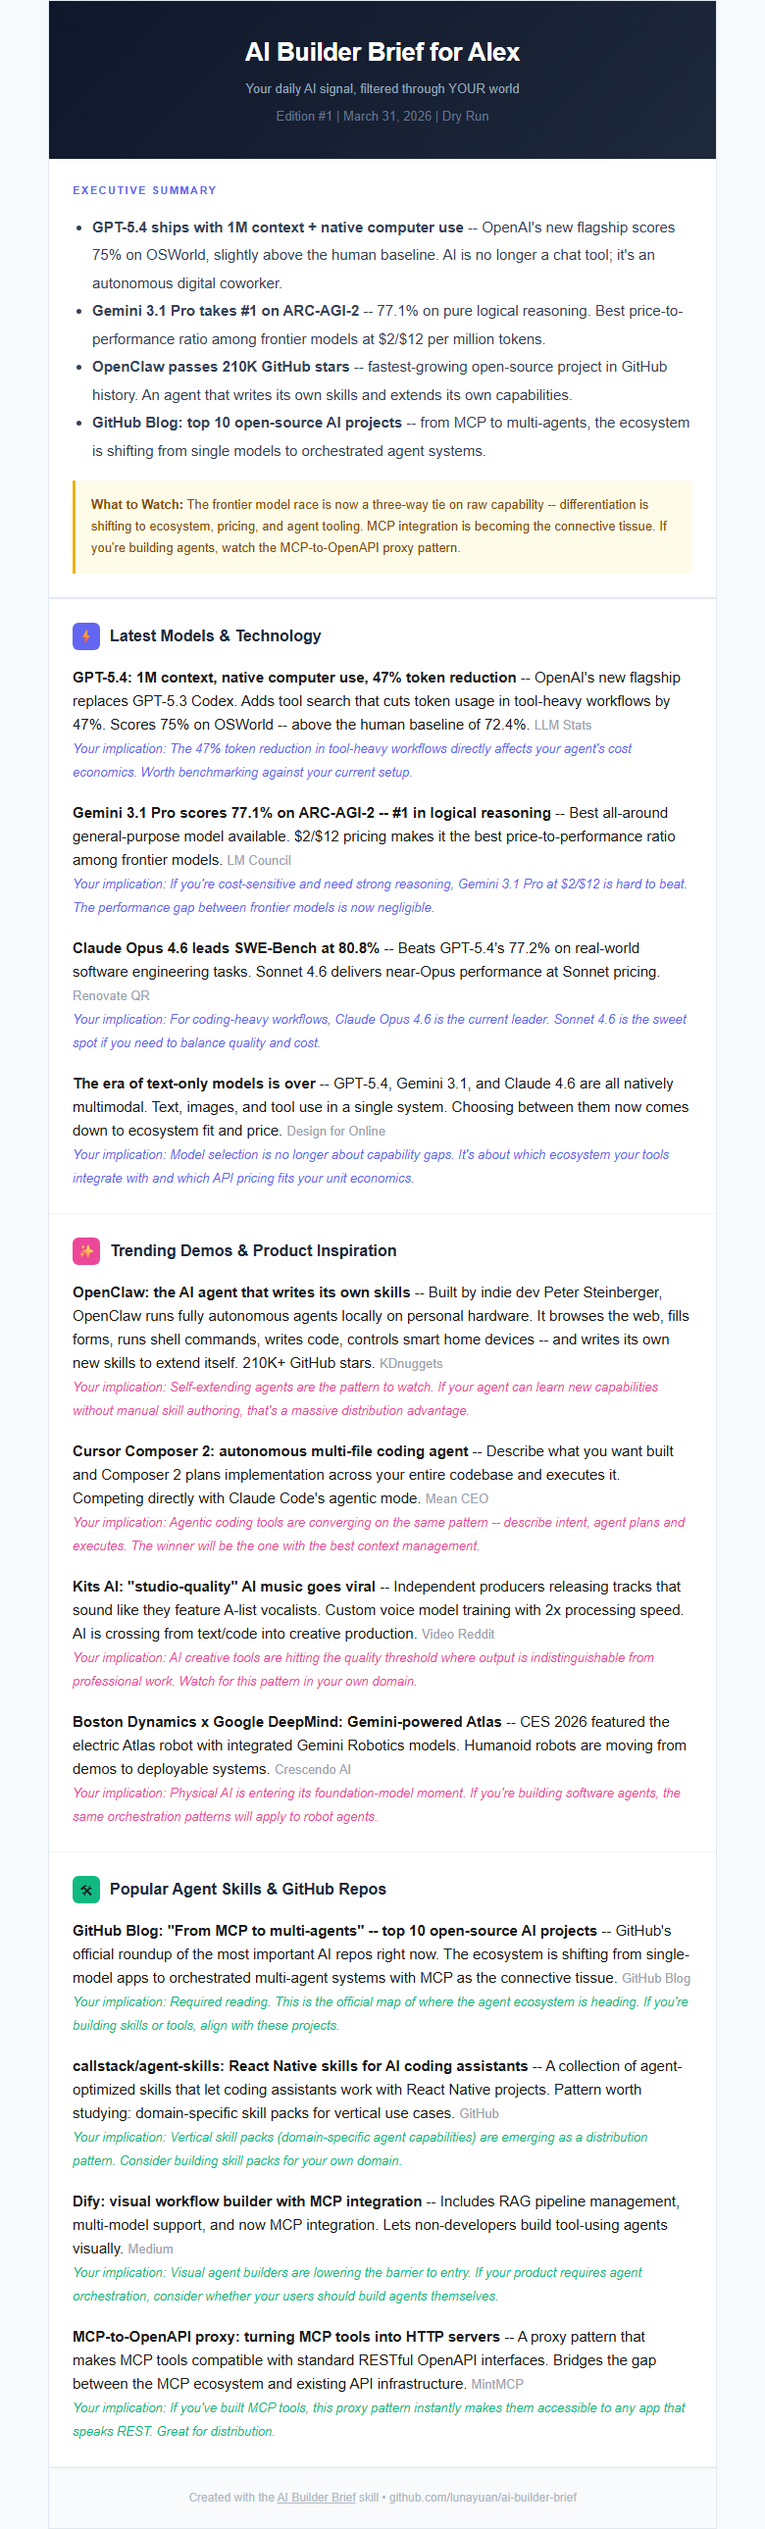
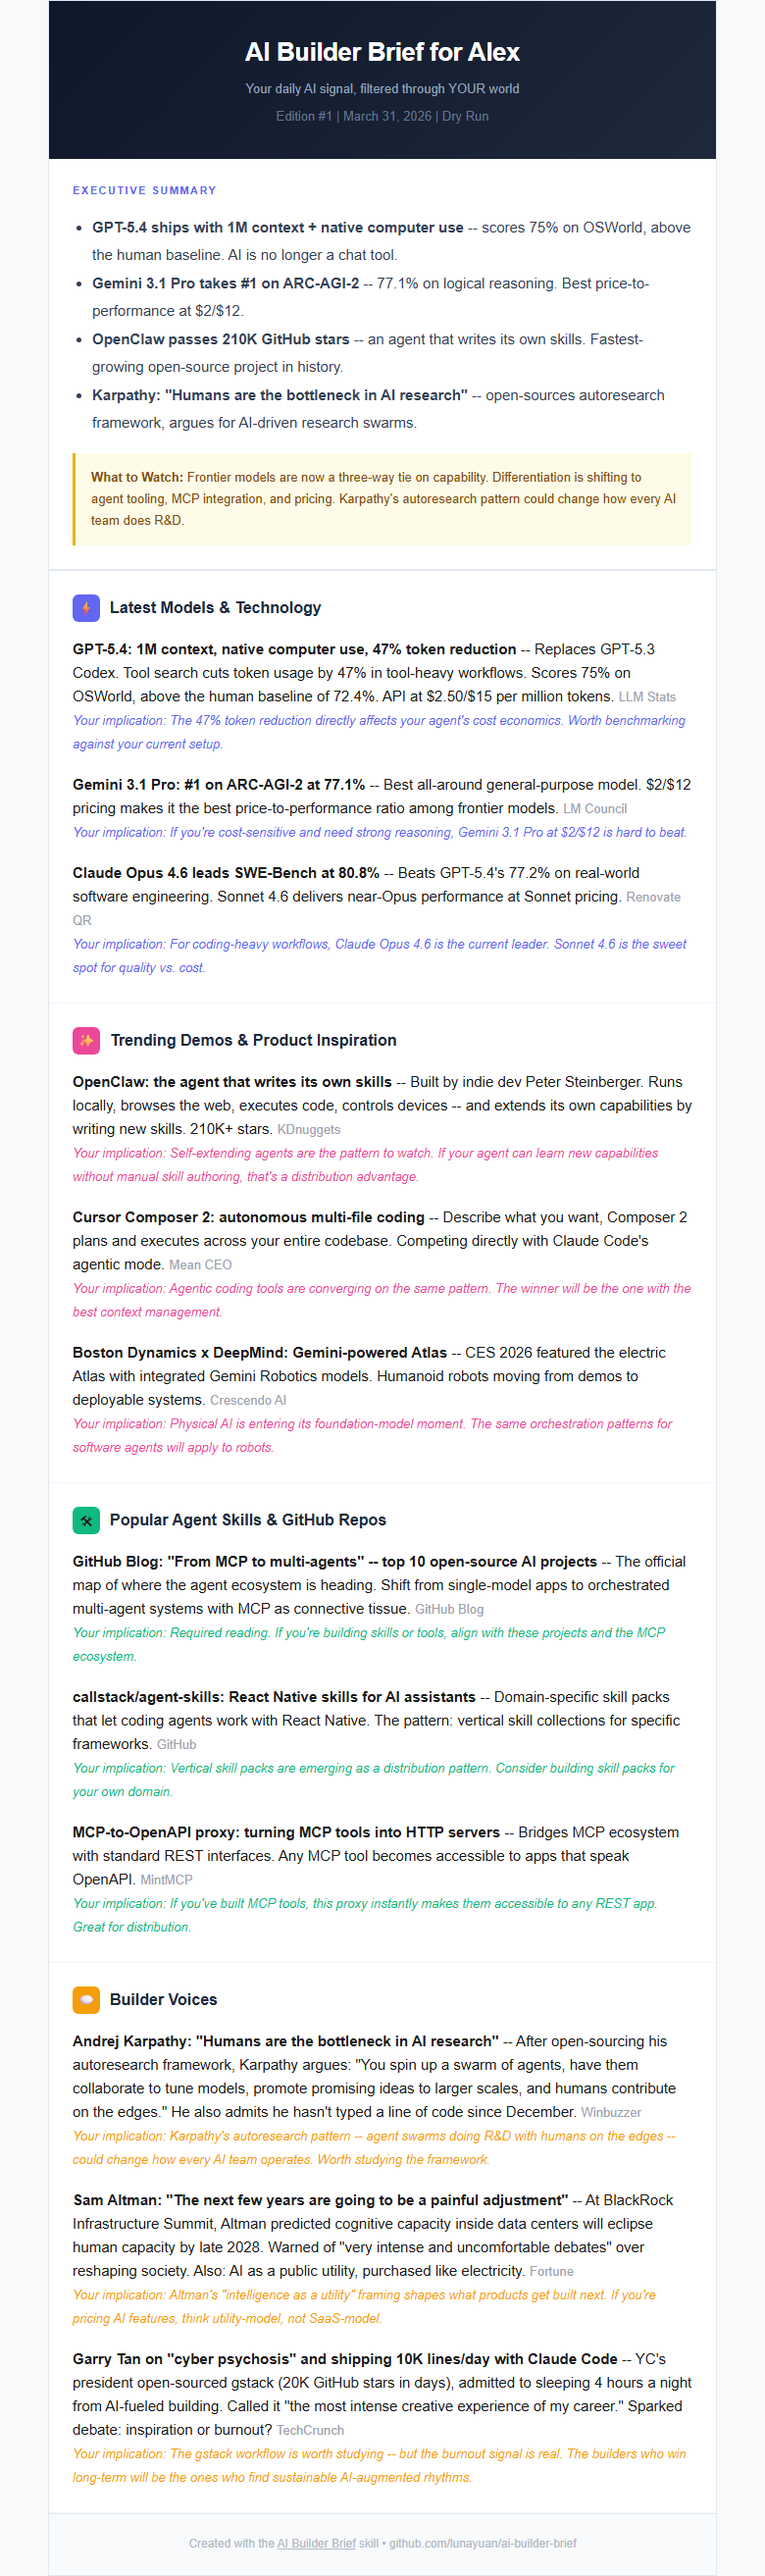
New 4-category sample briefing with Builder Voices
Sample now reflects the 4 default builder categories:
1. Latest Models & Technology
2. Trending Demos & Product Inspiration
3. Popular Agent Skills & GitHub Repos
4. Builder Voices (Karpathy, Altman, Garry Tan quotes)

Also: updated screenshot, placeholder emails to ai_briefing@,
and repo description updated.

Changed region(s): [[0.0923, 0.031, 0.8923, 0.9616], [0.6462, 0.0, 0.6769, 0.031]]

diff --git a/examples/sample-briefing.html b/examples/sample-briefing.html
@@ -15,13 +15,13 @@
 <div style="padding:24px;border-bottom:2px solid #e2e8f0">
 <div style="font-size:11px;font-weight:700;color:#6366f1;text-transform:uppercase;letter-spacing:1.5px;margin-bottom:14px">Executive Summary</div>
 <ul style="margin:0;padding-left:20px;line-height:1.9;color:#334155">
-<li><strong>GPT-5.4 ships with 1M context + native computer use</strong> -- OpenAI's new flagship scores 75% on OSWorld, slightly above the human baseline. AI is no longer a chat tool; it's an autonomous digital coworker.</li>
-<li><strong>Gemini 3.1 Pro takes #1 on ARC-AGI-2</strong> -- 77.1% on pure logical reasoning. Best price-to-performance ratio among frontier models at $2/$12 per million tokens.</li>
-<li><strong>OpenClaw passes 210K GitHub stars</strong> -- fastest-growing open-source project in GitHub history. An agent that writes its own skills and extends its own capabilities.</li>
-<li><strong>GitHub Blog: top 10 open-source AI projects</strong> -- from MCP to multi-agents, the ecosystem is shifting from single models to orchestrated agent systems.</li>
+<li><strong>GPT-5.4 ships with 1M context + native computer use</strong> -- scores 75% on OSWorld, above the human baseline. AI is no longer a chat tool.</li>
+<li><strong>Gemini 3.1 Pro takes #1 on ARC-AGI-2</strong> -- 77.1% on logical reasoning. Best price-to-performance at $2/$12.</li>
+<li><strong>OpenClaw passes 210K GitHub stars</strong> -- an agent that writes its own skills. Fastest-growing open-source project in history.</li>
+<li><strong>Karpathy: "Humans are the bottleneck in AI research"</strong> -- open-sources autoresearch framework, argues for AI-driven research swarms.</li>
 </ul>
 <div style="margin-top:16px;padding:14px 16px;background:#fefce8;border-left:3px solid #eab308;font-size:13px;color:#854d0e;line-height:1.7">
-<strong>What to Watch:</strong> The frontier model race is now a three-way tie on raw capability -- differentiation is shifting to ecosystem, pricing, and agent tooling. MCP integration is becoming the connective tissue. If you're building agents, watch the MCP-to-OpenAPI proxy pattern.
+<strong>What to Watch:</strong> Frontier models are now a three-way tie on capability. Differentiation is shifting to agent tooling, MCP integration, and pricing. Karpathy's autoresearch pattern could change how every AI team does R&amp;D.
 </div>
 </div>
 
@@ -33,23 +33,18 @@
 </div>
 
 <div style="margin-bottom:18px">
-<strong>GPT-5.4: 1M context, native computer use, 47% token reduction</strong> -- OpenAI's new flagship replaces GPT-5.3 Codex. Adds tool search that cuts token usage in tool-heavy workflows by 47%. Scores 75% on OSWorld -- above the human baseline of 72.4%. <a href="https://llm-stats.com/ai-news" style="color:#9ca3af;text-decoration:none;font-size:13px">LLM Stats</a><br>
-<em style="color:#6366f1;font-size:13px">Your implication: The 47% token reduction in tool-heavy workflows directly affects your agent's cost economics. Worth benchmarking against your current setup.</em>
+<strong>GPT-5.4: 1M context, native computer use, 47% token reduction</strong> -- Replaces GPT-5.3 Codex. Tool search cuts token usage by 47% in tool-heavy workflows. Scores 75% on OSWorld, above the human baseline of 72.4%. API at $2.50/$15 per million tokens. <a href="https://llm-stats.com/ai-news" style="color:#9ca3af;text-decoration:none;font-size:13px">LLM Stats</a><br>
+<em style="color:#6366f1;font-size:13px">Your implication: The 47% token reduction directly affects your agent's cost economics. Worth benchmarking against your current setup.</em>
 </div>
 
 <div style="margin-bottom:18px">
-<strong>Gemini 3.1 Pro scores 77.1% on ARC-AGI-2 -- #1 in logical reasoning</strong> -- Best all-around general-purpose model available. $2/$12 pricing makes it the best price-to-performance ratio among frontier models. <a href="https://lmcouncil.ai/benchmarks" style="color:#9ca3af;text-decoration:none;font-size:13px">LM Council</a><br>
-<em style="color:#6366f1;font-size:13px">Your implication: If you're cost-sensitive and need strong reasoning, Gemini 3.1 Pro at $2/$12 is hard to beat. The performance gap between frontier models is now negligible.</em>
-</div>
-
-<div style="margin-bottom:18px">
-<strong>Claude Opus 4.6 leads SWE-Bench at 80.8%</strong> -- Beats GPT-5.4's 77.2% on real-world software engineering tasks. Sonnet 4.6 delivers near-Opus performance at Sonnet pricing. <a href="https://renovateqr.com/blog/ai-model-releases-2026" style="color:#9ca3af;text-decoration:none;font-size:13px">Renovate QR</a><br>
-<em style="color:#6366f1;font-size:13px">Your implication: For coding-heavy workflows, Claude Opus 4.6 is the current leader. Sonnet 4.6 is the sweet spot if you need to balance quality and cost.</em>
+<strong>Gemini 3.1 Pro: #1 on ARC-AGI-2 at 77.1%</strong> -- Best all-around general-purpose model. $2/$12 pricing makes it the best price-to-performance ratio among frontier models. <a href="https://lmcouncil.ai/benchmarks" style="color:#9ca3af;text-decoration:none;font-size:13px">LM Council</a><br>
+<em style="color:#6366f1;font-size:13px">Your implication: If you're cost-sensitive and need strong reasoning, Gemini 3.1 Pro at $2/$12 is hard to beat.</em>
 </div>
 
 <div style="margin-bottom:0">
-<strong>The era of text-only models is over</strong> -- GPT-5.4, Gemini 3.1, and Claude 4.6 are all natively multimodal. Text, images, and tool use in a single system. Choosing between them now comes down to ecosystem fit and price. <a href="https://designforonline.com/the-best-ai-models-so-far-in-2026/" style="color:#9ca3af;text-decoration:none;font-size:13px">Design for Online</a><br>
-<em style="color:#6366f1;font-size:13px">Your implication: Model selection is no longer about capability gaps. It's about which ecosystem your tools integrate with and which API pricing fits your unit economics.</em>
+<strong>Claude Opus 4.6 leads SWE-Bench at 80.8%</strong> -- Beats GPT-5.4's 77.2% on real-world software engineering. Sonnet 4.6 delivers near-Opus performance at Sonnet pricing. <a href="https://renovateqr.com/blog/ai-model-releases-2026" style="color:#9ca3af;text-decoration:none;font-size:13px">Renovate QR</a><br>
+<em style="color:#6366f1;font-size:13px">Your implication: For coding-heavy workflows, Claude Opus 4.6 is the current leader. Sonnet 4.6 is the sweet spot for quality vs. cost.</em>
 </div>
 </div>
 
@@ -61,23 +56,18 @@
 </div>
 
 <div style="margin-bottom:18px">
-<strong>OpenClaw: the AI agent that writes its own skills</strong> -- Built by indie dev Peter Steinberger, OpenClaw runs fully autonomous agents locally on personal hardware. It browses the web, fills forms, runs shell commands, writes code, controls smart home devices -- and writes its own new skills to extend itself. 210K+ GitHub stars. <a href="https://www.kdnuggets.com/openclaw-explained-the-free-ai-agent-tool-going-viral-already-in-2026" style="color:#9ca3af;text-decoration:none;font-size:13px">KDnuggets</a><br>
-<em style="color:#ec4899;font-size:13px">Your implication: Self-extending agents are the pattern to watch. If your agent can learn new capabilities without manual skill authoring, that's a massive distribution advantage.</em>
+<strong>OpenClaw: the agent that writes its own skills</strong> -- Built by indie dev Peter Steinberger. Runs locally, browses the web, executes code, controls devices -- and extends its own capabilities by writing new skills. 210K+ stars. <a href="https://www.kdnuggets.com/openclaw-explained-the-free-ai-agent-tool-going-viral-already-in-2026" style="color:#9ca3af;text-decoration:none;font-size:13px">KDnuggets</a><br>
+<em style="color:#ec4899;font-size:13px">Your implication: Self-extending agents are the pattern to watch. If your agent can learn new capabilities without manual skill authoring, that's a distribution advantage.</em>
 </div>
 
 <div style="margin-bottom:18px">
-<strong>Cursor Composer 2: autonomous multi-file coding agent</strong> -- Describe what you want built and Composer 2 plans implementation across your entire codebase and executes it. Competing directly with Claude Code's agentic mode. <a href="https://blog.mean.ceo/new-ai-model-releases-news-march-2026/" style="color:#9ca3af;text-decoration:none;font-size:13px">Mean CEO</a><br>
-<em style="color:#ec4899;font-size:13px">Your implication: Agentic coding tools are converging on the same pattern -- describe intent, agent plans and executes. The winner will be the one with the best context management.</em>
-</div>
-
-<div style="margin-bottom:18px">
-<strong>Kits AI: "studio-quality" AI music goes viral</strong> -- Independent producers releasing tracks that sound like they feature A-list vocalists. Custom voice model training with 2x processing speed. AI is crossing from text/code into creative production. <a href="https://videoreddit.edu.vn/%F0%9F%8E%A4-kits-ai-2026-the-studio-quality-music-revolution/" style="color:#9ca3af;text-decoration:none;font-size:13px">Video Reddit</a><br>
-<em style="color:#ec4899;font-size:13px">Your implication: AI creative tools are hitting the quality threshold where output is indistinguishable from professional work. Watch for this pattern in your own domain.</em>
+<strong>Cursor Composer 2: autonomous multi-file coding</strong> -- Describe what you want, Composer 2 plans and executes across your entire codebase. Competing directly with Claude Code's agentic mode. <a href="https://blog.mean.ceo/new-ai-model-releases-news-march-2026/" style="color:#9ca3af;text-decoration:none;font-size:13px">Mean CEO</a><br>
+<em style="color:#ec4899;font-size:13px">Your implication: Agentic coding tools are converging on the same pattern. The winner will be the one with the best context management.</em>
 </div>
 
 <div style="margin-bottom:0">
-<strong>Boston Dynamics x Google DeepMind: Gemini-powered Atlas</strong> -- CES 2026 featured the electric Atlas robot with integrated Gemini Robotics models. Humanoid robots are moving from demos to deployable systems. <a href="https://www.crescendo.ai/news/latest-ai-news-and-updates" style="color:#9ca3af;text-decoration:none;font-size:13px">Crescendo AI</a><br>
-<em style="color:#ec4899;font-size:13px">Your implication: Physical AI is entering its foundation-model moment. If you're building software agents, the same orchestration patterns will apply to robot agents.</em>
+<strong>Boston Dynamics x DeepMind: Gemini-powered Atlas</strong> -- CES 2026 featured the electric Atlas with integrated Gemini Robotics models. Humanoid robots moving from demos to deployable systems. <a href="https://www.crescendo.ai/news/latest-ai-news-and-updates" style="color:#9ca3af;text-decoration:none;font-size:13px">Crescendo AI</a><br>
+<em style="color:#ec4899;font-size:13px">Your implication: Physical AI is entering its foundation-model moment. The same orchestration patterns for software agents will apply to robots.</em>
 </div>
 </div>
 
@@ -89,23 +79,41 @@
 </div>
 
 <div style="margin-bottom:18px">
-<strong>GitHub Blog: "From MCP to multi-agents" -- top 10 open-source AI projects</strong> -- GitHub's official roundup of the most important AI repos right now. The ecosystem is shifting from single-model apps to orchestrated multi-agent systems with MCP as the connective tissue. <a href="https://github.blog/open-source/maintainers/from-mcp-to-multi-agents-the-top-10-open-source-ai-projects-on-github-right-now-and-why-they-matter/" style="color:#9ca3af;text-decoration:none;font-size:13px">GitHub Blog</a><br>
-<em style="color:#10b981;font-size:13px">Your implication: Required reading. This is the official map of where the agent ecosystem is heading. If you're building skills or tools, align with these projects.</em>
+<strong>GitHub Blog: "From MCP to multi-agents" -- top 10 open-source AI projects</strong> -- The official map of where the agent ecosystem is heading. Shift from single-model apps to orchestrated multi-agent systems with MCP as connective tissue. <a href="https://github.blog/open-source/maintainers/from-mcp-to-multi-agents-the-top-10-open-source-ai-projects-on-github-right-now-and-why-they-matter/" style="color:#9ca3af;text-decoration:none;font-size:13px">GitHub Blog</a><br>
+<em style="color:#10b981;font-size:13px">Your implication: Required reading. If you're building skills or tools, align with these projects and the MCP ecosystem.</em>
 </div>
 
 <div style="margin-bottom:18px">
-<strong>callstack/agent-skills: React Native skills for AI coding assistants</strong> -- A collection of agent-optimized skills that let coding assistants work with React Native projects. Pattern worth studying: domain-specific skill packs for vertical use cases. <a href="https://github.com/callstackincubator/agent-skills" style="color:#9ca3af;text-decoration:none;font-size:13px">GitHub</a><br>
-<em style="color:#10b981;font-size:13px">Your implication: Vertical skill packs (domain-specific agent capabilities) are emerging as a distribution pattern. Consider building skill packs for your own domain.</em>
-</div>
-
-<div style="margin-bottom:18px">
-<strong>Dify: visual workflow builder with MCP integration</strong> -- Includes RAG pipeline management, multi-model support, and now MCP integration. Lets non-developers build tool-using agents visually. <a href="https://medium.com/write-a-catalyst/top-ai-github-repositories-in-2026-e08af3e88314" style="color:#9ca3af;text-decoration:none;font-size:13px">Medium</a><br>
-<em style="color:#10b981;font-size:13px">Your implication: Visual agent builders are lowering the barrier to entry. If your product requires agent orchestration, consider whether your users should build agents themselves.</em>
+<strong>callstack/agent-skills: React Native skills for AI assistants</strong> -- Domain-specific skill packs that let coding agents work with React Native. The pattern: vertical skill collections for specific frameworks. <a href="https://github.com/callstackincubator/agent-skills" style="color:#9ca3af;text-decoration:none;font-size:13px">GitHub</a><br>
+<em style="color:#10b981;font-size:13px">Your implication: Vertical skill packs are emerging as a distribution pattern. Consider building skill packs for your own domain.</em>
 </div>
 
 <div style="margin-bottom:0">
-<strong>MCP-to-OpenAPI proxy: turning MCP tools into HTTP servers</strong> -- A proxy pattern that makes MCP tools compatible with standard RESTful OpenAPI interfaces. Bridges the gap between the MCP ecosystem and existing API infrastructure. <a href="https://www.mintmcp.com/blog/mcp-gateways-github-integration" style="color:#9ca3af;text-decoration:none;font-size:13px">MintMCP</a><br>
-<em style="color:#10b981;font-size:13px">Your implication: If you've built MCP tools, this proxy pattern instantly makes them accessible to any app that speaks REST. Great for distribution.</em>
+<strong>MCP-to-OpenAPI proxy: turning MCP tools into HTTP servers</strong> -- Bridges MCP ecosystem with standard REST interfaces. Any MCP tool becomes accessible to apps that speak OpenAPI. <a href="https://www.mintmcp.com/blog/mcp-gateways-github-integration" style="color:#9ca3af;text-decoration:none;font-size:13px">MintMCP</a><br>
+<em style="color:#10b981;font-size:13px">Your implication: If you've built MCP tools, this proxy instantly makes them accessible to any REST app. Great for distribution.</em>
+</div>
+</div>
+
+<!-- Category 4: Builder Voices -->
+<div style="padding:24px;border-bottom:1px solid #f1f5f9">
+<div style="display:flex;align-items:center;margin-bottom:16px">
+<span style="display:inline-block;width:28px;height:28px;background:#f59e0b;border-radius:6px;text-align:center;line-height:28px;font-size:14px;margin-right:10px">&#128172;</span>
+<span style="font-size:16px;font-weight:700;color:#1e293b">Builder Voices</span>
+</div>
+
+<div style="margin-bottom:18px">
+<strong>Andrej Karpathy: "Humans are the bottleneck in AI research"</strong> -- After open-sourcing his autoresearch framework, Karpathy argues: "You spin up a swarm of agents, have them collaborate to tune models, promote promising ideas to larger scales, and humans contribute on the edges." He also admits he hasn't typed a line of code since December. <a href="https://winbuzzer.com/2026/03/23/karpathy-humans-bottleneck-ai-research-xcxwbn/" style="color:#9ca3af;text-decoration:none;font-size:13px">Winbuzzer</a><br>
+<em style="color:#f59e0b;font-size:13px">Your implication: Karpathy's autoresearch pattern -- agent swarms doing R&amp;D with humans on the edges -- could change how every AI team operates. Worth studying the framework.</em>
+</div>
+
+<div style="margin-bottom:18px">
+<strong>Sam Altman: "The next few years are going to be a painful adjustment"</strong> -- At BlackRock Infrastructure Summit, Altman predicted cognitive capacity inside data centers will eclipse human capacity by late 2028. Warned of "very intense and uncomfortable debates" over reshaping society. Also: AI as a public utility, purchased like electricity. <a href="https://fortune.com/2026/03/12/sam-altman-ai-labor-capital-jobs-nobody-knows/" style="color:#9ca3af;text-decoration:none;font-size:13px">Fortune</a><br>
+<em style="color:#f59e0b;font-size:13px">Your implication: Altman's "intelligence as a utility" framing shapes what products get built next. If you're pricing AI features, think utility-model, not SaaS-model.</em>
+</div>
+
+<div style="margin-bottom:0">
+<strong>Garry Tan on "cyber psychosis" and shipping 10K lines/day with Claude Code</strong> -- YC's president open-sourced gstack (20K GitHub stars in days), admitted to sleeping 4 hours a night from AI-fueled building. Called it "the most intense creative experience of my career." Sparked debate: inspiration or burnout? <a href="https://techcrunch.com/2026/03/17/why-garry-tans-claude-code-setup-has-gotten-so-much-love-and-hate/" style="color:#9ca3af;text-decoration:none;font-size:13px">TechCrunch</a><br>
+<em style="color:#f59e0b;font-size:13px">Your implication: The gstack workflow is worth studying -- but the burnout signal is real. The builders who win long-term will be the ones who find sustainable AI-augmented rhythms.</em>
 </div>
 </div>
 

diff --git a/SKILL.md b/SKILL.md
@@ -183,7 +183,7 @@ Store as `config.distribution.*`:
   "resend": {
     "envFile": "~/.ai-builder-brief/.env",
     "envVar": "RESEND_API_KEY",
-    "fromAddress": "briefing@yourdomain.com",
+    "fromAddress": "ai_briefing@yourdomain.com",
     "fromName": "AI Builder Brief"
   }
 }
